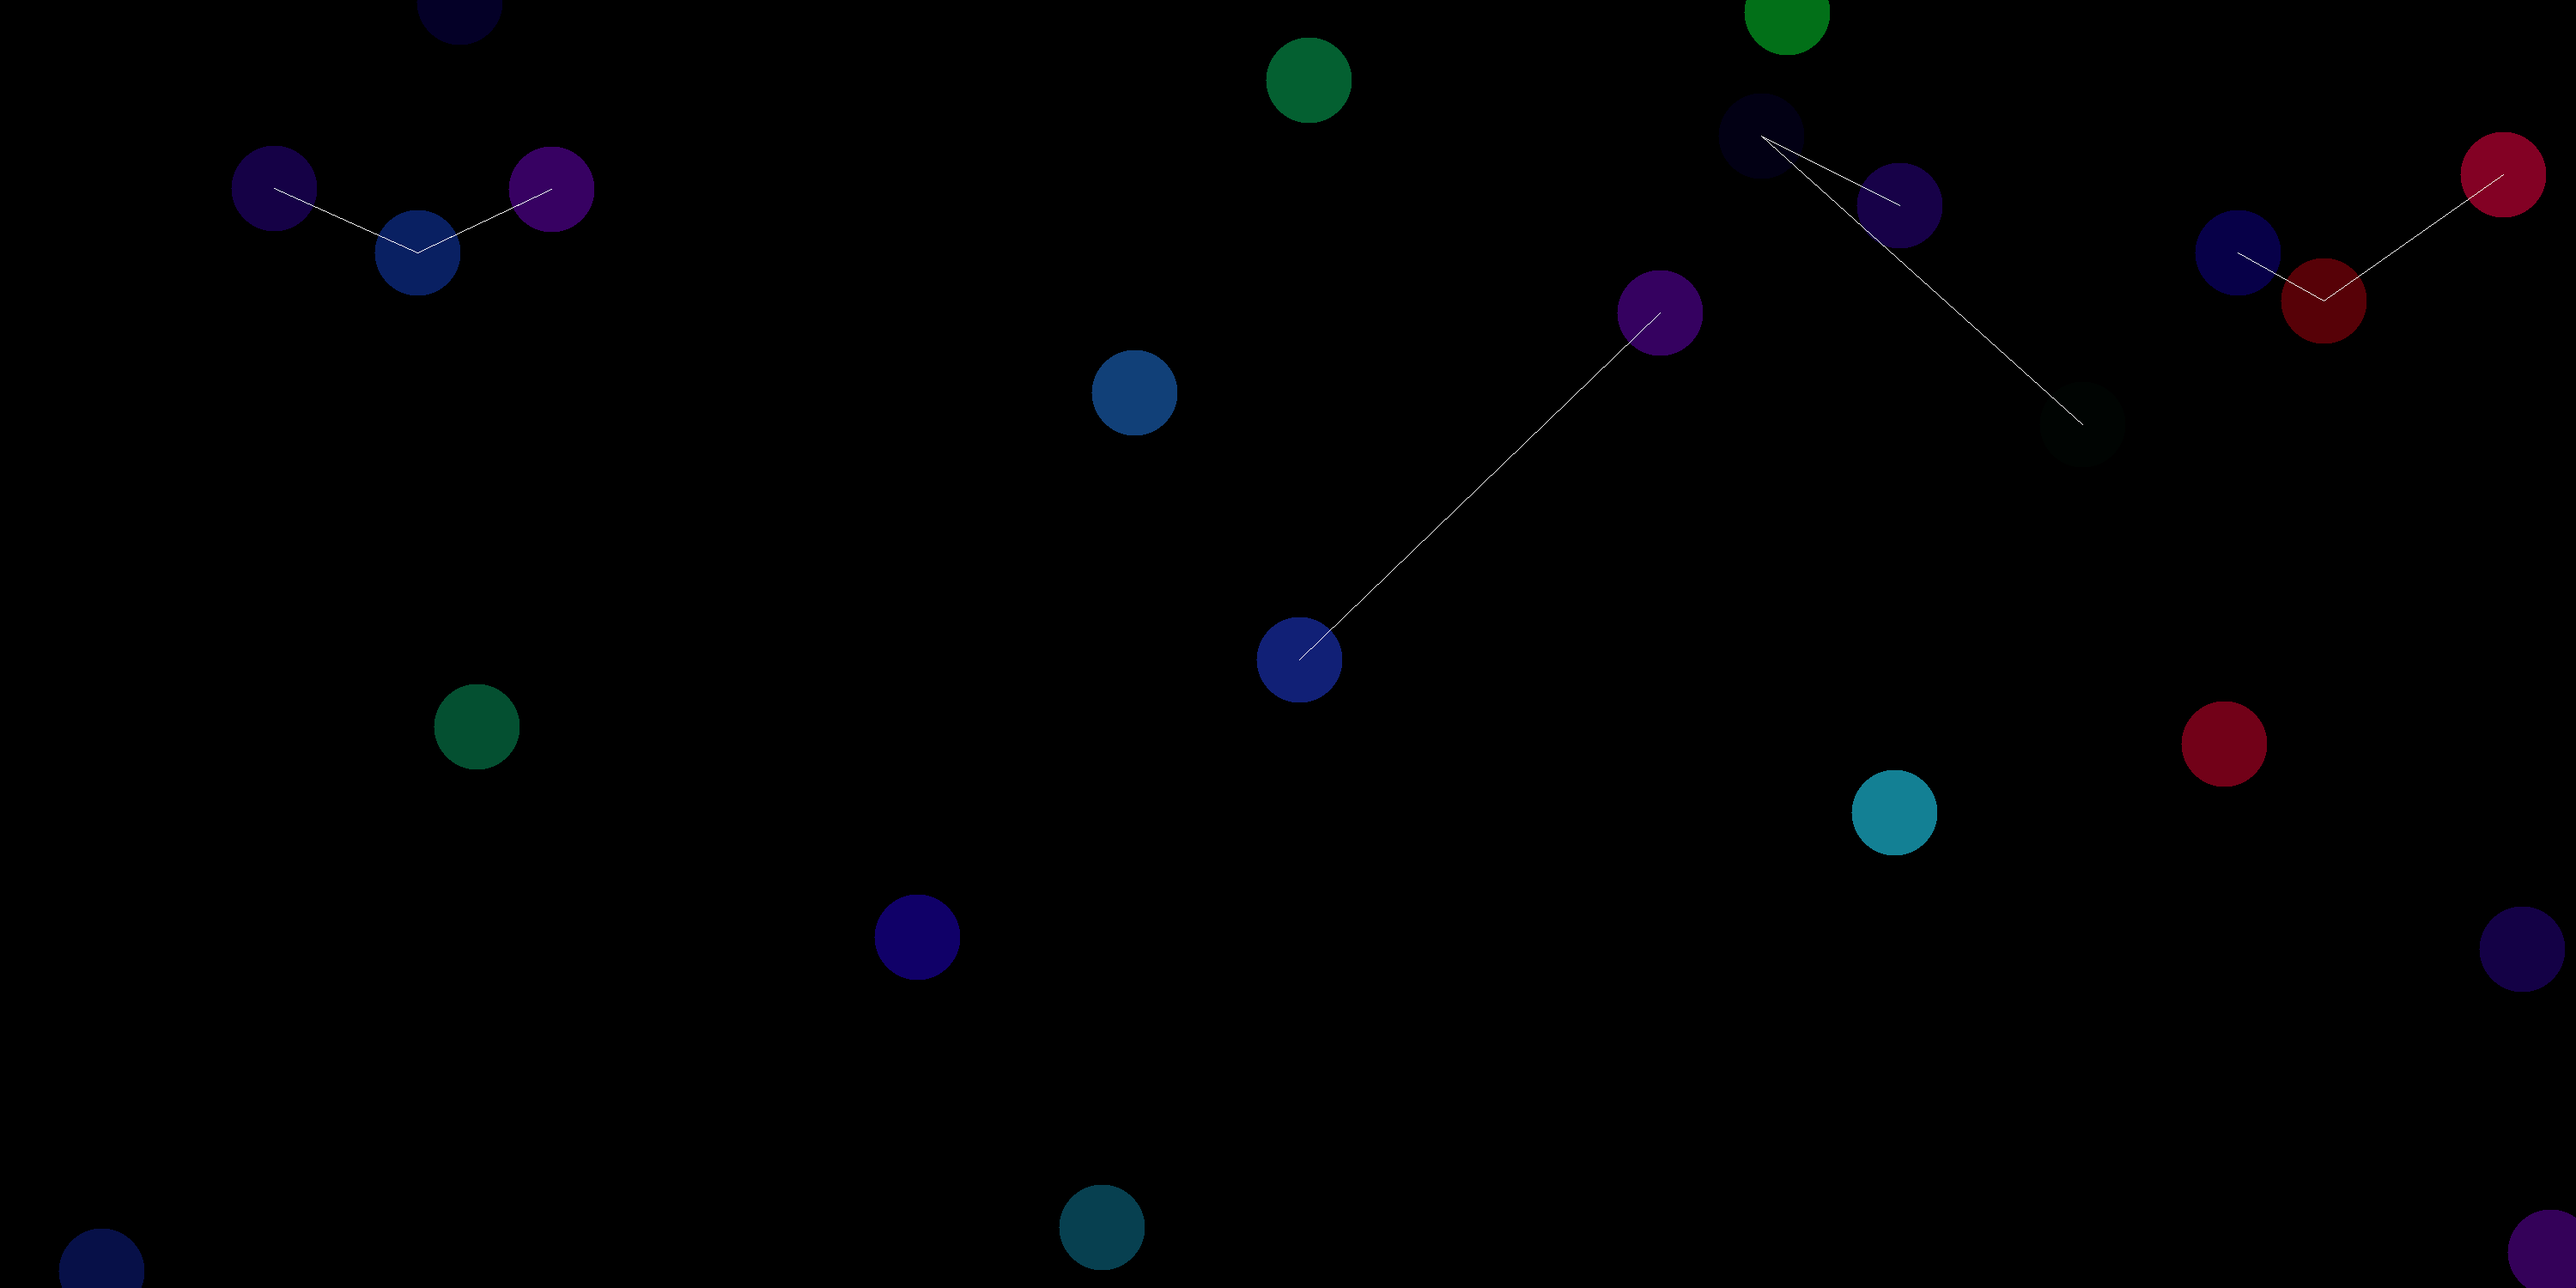
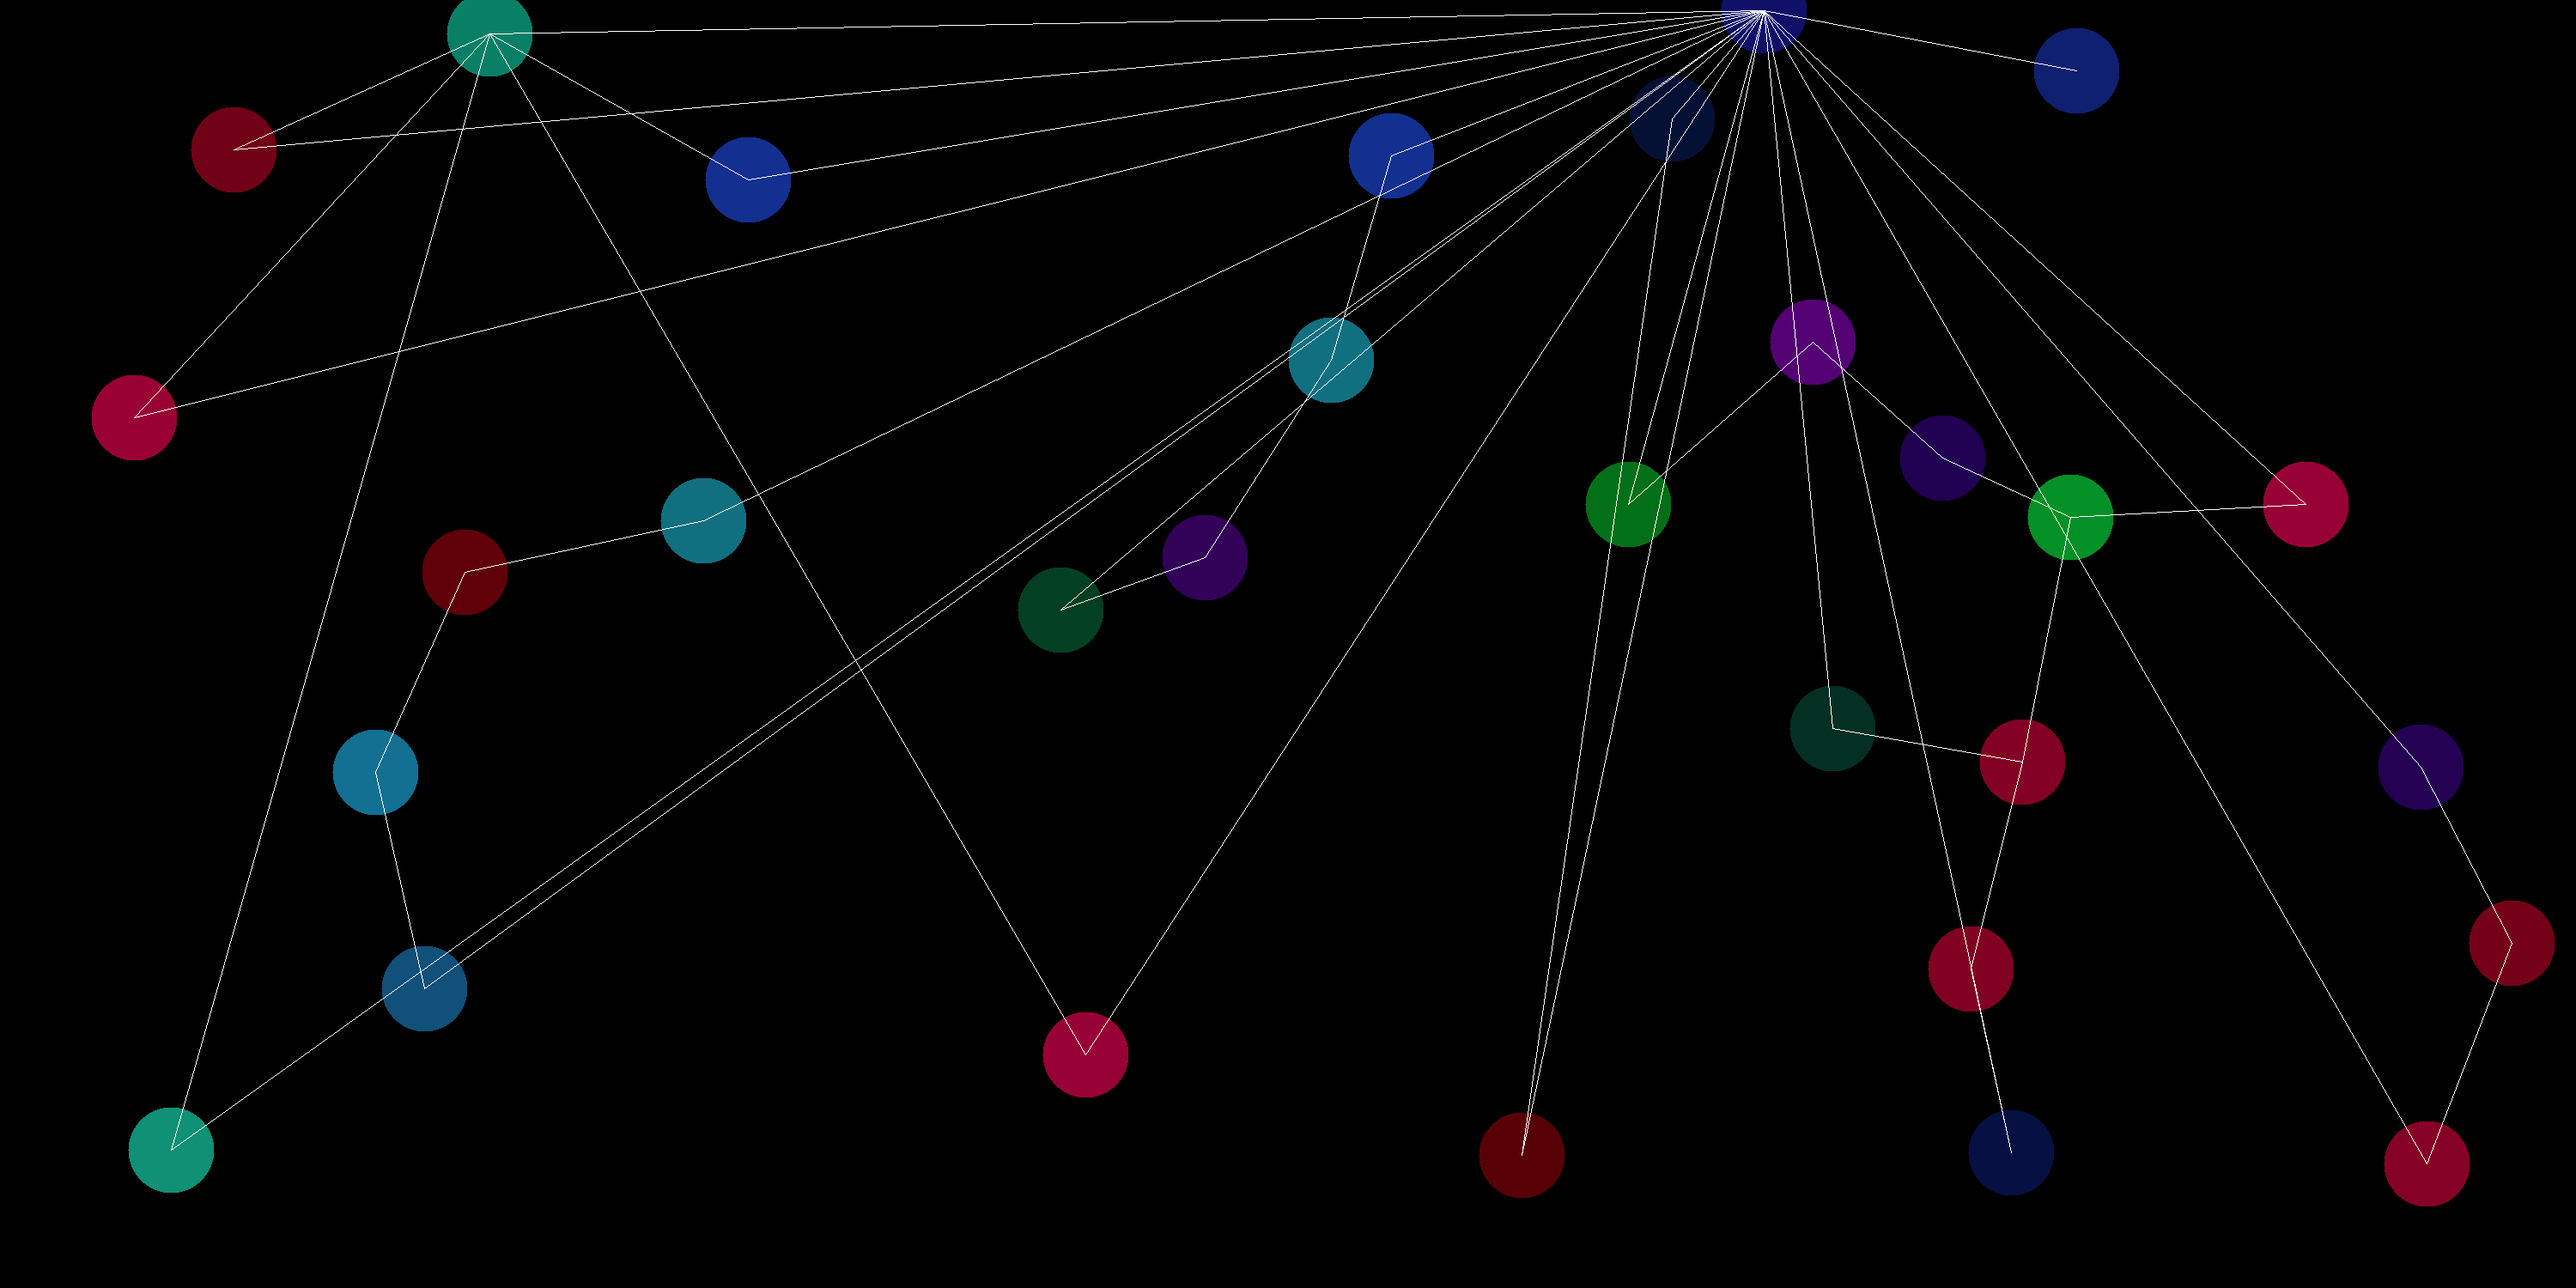
Quick Save

diff --git a/Rainbow Triangles/src/TriangleGen.java b/Rainbow Triangles/src/TriangleGen.java
@@ -7,6 +7,7 @@ import java.util.Random;
 public class TriangleGen
 {
 
+	private static final int MIN_LINES_PER_POINT = 3;
 	private static final int ATTEMPTS_TO_DISTRIBUTE = 15;
 	
 	public static BufferedImage generate(int width, int height, int numOfPoints, int minDistance, int maxLineDistance)
@@ -37,15 +38,36 @@ public class TriangleGen
 			for(int j = 0; j < lessCoords.size(); j++)
 			{
 				Coordinate newCoord = lessCoords.get(j);
-				if(distanceBetweenPoints(curCoord, newCoord) < maxLineDistance)
+				if(distanceBetweenPoints(curCoord, newCoord) < maxLineDistance && !curCoord.linesTo.contains(newCoord))
 				{
 					graphics.setColor(Color.WHITE);
 					graphics.drawLine(curCoord.x, curCoord.y, newCoord.x, newCoord.y);
+					curCoord.linesTo.add(newCoord);
+					newCoord.linesTo.add(curCoord);
+					lines++;
+					System.out.println("CurCoord lines: " + curCoord.linesTo.size());
+				}
+			}
+		}
+		for(int i = 0; i < coords.size(); i++)
+		{
+			Coordinate curCoord = coords.get(i);
+			if(curCoord.linesTo.size() < MIN_LINES_PER_POINT)
+			{
+				ArrayList<Coordinate> nearPoints = getNearestPoints(coords, MIN_LINES_PER_POINT - curCoord.linesTo.size(), curCoord);
+				for(int f = 0; f < nearPoints.size(); f++)
+				{
+					System.out.println("Near Points Size: " + nearPoints.size());
+					Coordinate nearCoord = nearPoints.get(f);
+					graphics.setColor(Color.WHITE);
+					graphics.drawLine(curCoord.x, curCoord.y, nearCoord.x, nearCoord.y);
+					curCoord.linesTo.add(nearCoord);
+					nearCoord.linesTo.add(curCoord);
 					lines++;
 				}
 			}
 		}
-		System.out.println("===\n"  + lines);
+		System.out.println("===\nLines: "  + lines);
 		return img;
 	}
 
@@ -87,9 +109,13 @@ public class TriangleGen
 							double curDis = minDistanceBetweenPoints(coords, width, height, j, i);
 							if(curDis >= minDistance)
 							{
-								coords.add(new Coordinate(j, i, 0));//We add the z value later.
+								coords.add(new Coordinate(j, i, 0));//We add the z and value later.
 							}
 						}
+					}
+					else
+					{
+						break;
 					}
 				}
 				if(coords.size() >= numOfPoints)
@@ -98,6 +124,10 @@ public class TriangleGen
 				}
 			}
 			attempts = f + 1;
+			if(coords.size() >= numOfPoints)
+			{
+				break;
+			}
 		}
 		System.out.println("Number of attempts to distribute points: " + attempts + ". Points plotted: " + coords.size() + ".");
 		return coords;
@@ -106,19 +136,16 @@ public class TriangleGen
 	private static double minDistanceBetweenPoints(ArrayList<Coordinate> points, int width, int height, int x, int y)
 	{
 		double minDistance = Integer.MAX_VALUE;
+		double dis = Integer.MAX_VALUE - 10;
 		for(int i = 0; i < points.size(); i++)
 		{
 			double xDis = points.get(i).x - x;
 			double yDis = points.get(i).y - y;
-			double dis = Math.sqrt(xDis * xDis - yDis * yDis);
+			dis = Math.sqrt((xDis * xDis) + (yDis * yDis));
 			if(dis < minDistance)
 			{
 				minDistance = dis;
 			}
-		}
-		if(minDistance == Integer.MAX_VALUE)
-		{
-			System.out.println("Uh Oh");
 		}
 		return minDistance;
 	}
@@ -127,7 +154,44 @@ public class TriangleGen
 	{
 		double xDis = p1.x - p2.x;
 		double yDis = p1.y - p2.y;
-		return Math.sqrt(xDis * xDis - yDis * yDis);
+		return Math.sqrt(xDis * xDis + yDis * yDis);
+	}
+	
+	public static ArrayList<Coordinate> getNearestPoints(ArrayList<Coordinate> input, int num, Coordinate from)
+	{
+		ArrayList<Coordinate> output = new ArrayList<>();
+		for(int i = 0; i < input.size(); i++)
+		{
+			Coordinate inCoord = input.get(i);
+			double inDis = distanceBetweenPoints(inCoord, from);
+			double maxOutDis = Integer.MAX_VALUE;
+			int maxOutIndex = -1;
+			for(int f = 0; f < output.size(); f++)
+			{
+				double outDis = distanceBetweenPoints(output.get(f), from);
+				if(outDis < maxOutDis)
+				{
+					maxOutDis = outDis;
+					maxOutIndex = f;
+				}
+			}
+			if(inDis < maxOutDis)
+			{
+				if(maxOutIndex == -1 || output.size() < num)
+				{
+					output.add(inCoord);
+				}
+				else
+				{
+					output.set(maxOutIndex, inCoord);
+				}
+			}
+		}
+		if(output.size() != num)
+		{
+			System.out.println("Output Size: " + output.size());
+		}
+		return output;
 	}
 
 }

diff --git a/Rainbow Triangles/src/Coordinate.java b/Rainbow Triangles/src/Coordinate.java
@@ -1,6 +1,9 @@
+import java.util.ArrayList;
+
 public class Coordinate
 {
 	public int x, y, z;
+	public ArrayList<Coordinate> linesTo = new ArrayList<>();
 
 	public Coordinate()
 	{
